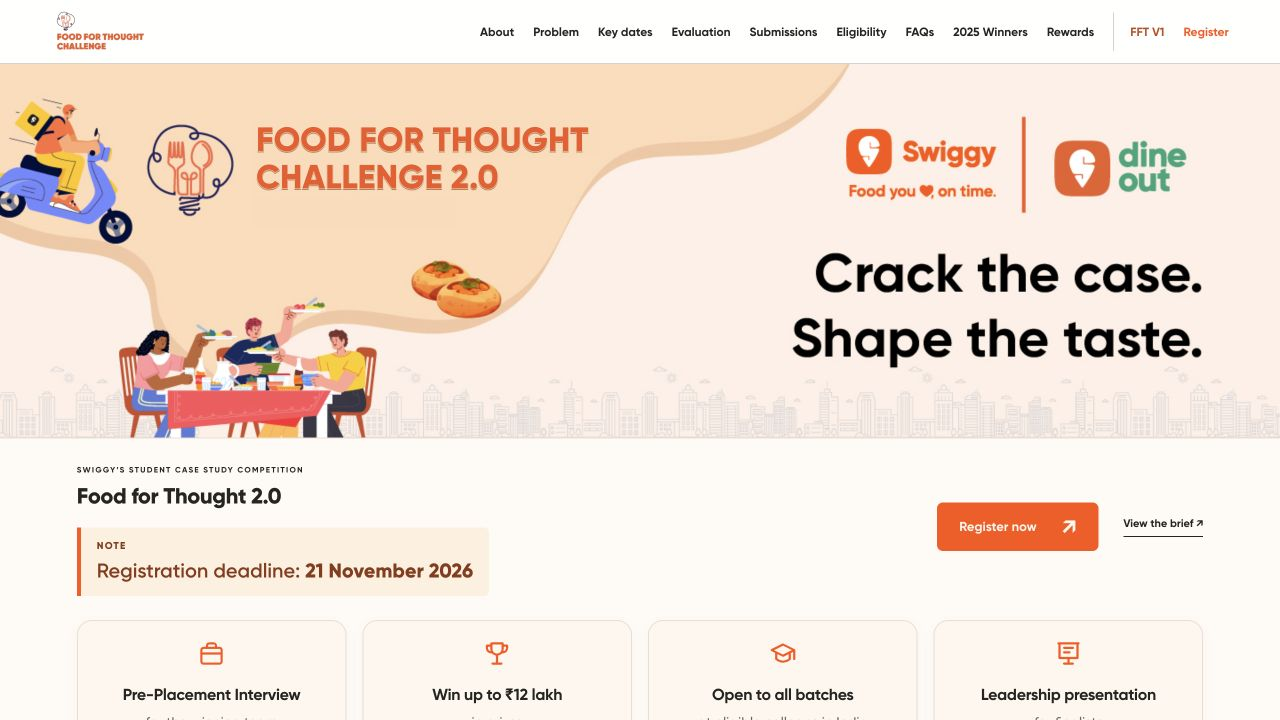
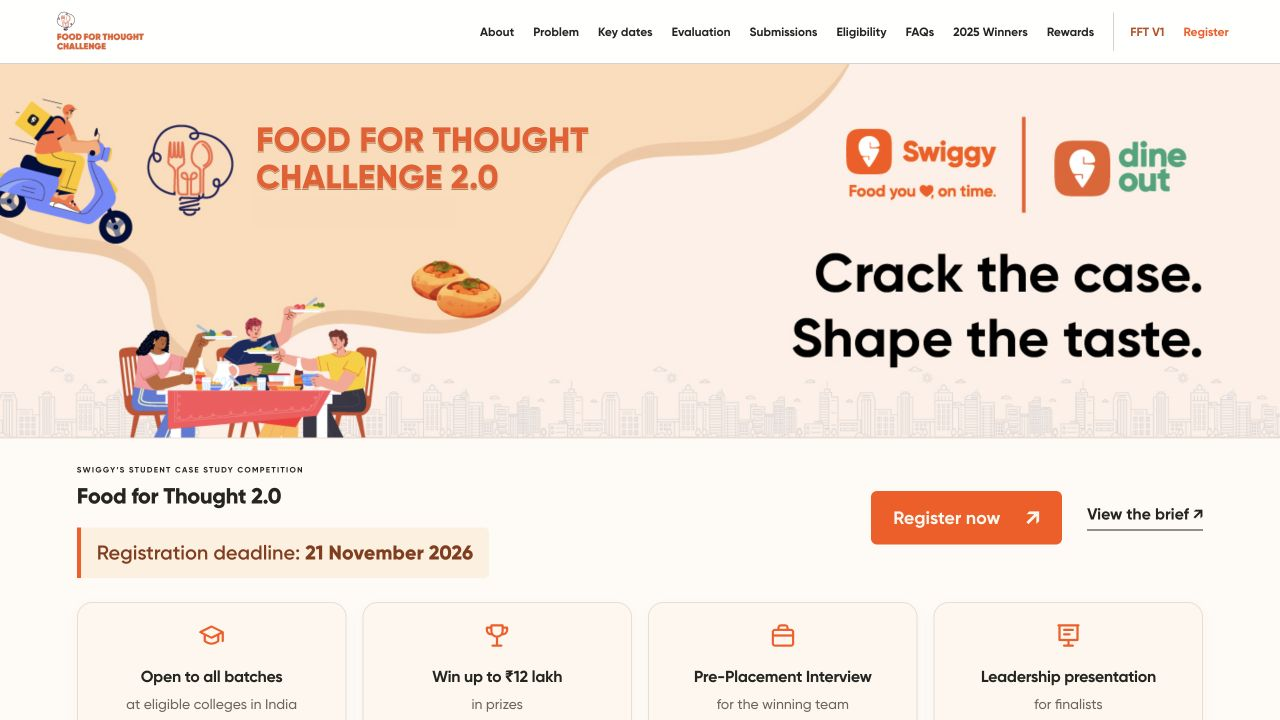
Reorder highlight cards and improve registration visibility

diff --git a/dist/styles.css b/dist/styles.css
@@ -54,11 +54,11 @@ dialog{background:var(--cream);border:1px solid var(--ink);border-radius:12px;pa
 .feedback-header{height:64px;padding:5px 4vw;gap:26px;background:#fffffff7}.feedback-header .brand{flex-shrink:0}.feedback-header .brand img{width:108px;height:50px;object-fit:contain}.feedback-header nav{gap:19px}.feedback-header nav a{font-size:12px;white-space:nowrap}.fft-v1-nav{padding-left:16px!important;border-left:1px solid var(--line);color:#bd4d21}.fft-v1-nav[aria-current=page]{color:var(--orange);text-decoration:underline;text-underline-offset:6px}
 .banner-edition{position:absolute;left:19.9%;top:36%;width:18%;height:10%;background:#ffdbb7;color:#111;display:flex;align-items:flex-start;padding-top:.2%;font-weight:700;font-size:clamp(9px,2.25vw,33px);line-height:1.2;letter-spacing:-.4px}
 .hero-caption{padding-top:19px;padding-bottom:19px;background:#fffaf5}.hero-caption h2{font-size:22px;letter-spacing:-.4px}.hero-caption .button{background:var(--orange);border-color:var(--orange)}.hero-caption .button:hover{box-shadow:none;transform:translateY(-1px)}
-.message-strip{display:grid;grid-template-columns:repeat(3,minmax(0,1fr));padding:13px 6vw;gap:20px;align-items:center;text-align:center;background:var(--orange);color:white}.message-strip span{font-size:12px;font-weight:700;letter-spacing:1px;white-space:normal;line-height:1.4}.message-strip span+span{border-left:1px solid #ffffff50}
+.message-strip{display:grid;grid-template-columns:repeat(3,minmax(0,1fr));padding:22px 6vw;gap:20px;align-items:center;text-align:center;background:var(--orange);color:white}.message-strip span{font-size:12px;font-weight:700;letter-spacing:1px;white-space:normal;line-height:1.4}.message-strip span+span{border-left:1px solid #ffffff50}
 .competition-intro{background:#fff7f0;color:var(--ink);padding:31px 0;border-bottom:1px solid var(--line)}.intro-wrap{width:min(1080px,calc(100% - 12vw));margin:auto}.competition-intro h2{font-size:26px;letter-spacing:-.4px;margin-bottom:13px}.competition-intro h3{font-size:21px;margin:22px 0 10px}.competition-intro p,.competition-intro li{font-size:15px;line-height:1.65}.competition-intro #problem>p+p{margin-top:12px}.competition-intro ul{margin:10px 0 0;padding-left:20px;display:grid;grid-template-columns:1fr 1fr;gap:25px}.competition-intro strong{color:var(--ink)}.competition-intro li{padding-left:2px}.competition-intro li::marker{color:var(--orange)}
 @media(max-width:1150px){.feedback-header{padding-inline:25px;gap:20px}.feedback-header nav{gap:13px}.feedback-header nav a{font-size:11px}.feedback-header .brand img{width:91px}.fft-v1-nav{padding-left:11px!important}}
 @media(max-width:900px){.feedback-header{height:64px;padding-inline:24px}.feedback-header .menu-toggle{margin-left:auto}.feedback-header .brand img{width:115px;height:47px}.feedback-header nav{top:64px;padding:18px 24px;gap:17px;background:white;border-bottom:1px solid var(--line);box-shadow:0 5px 10px #2424200b}.feedback-header nav.open{display:grid;grid-template-columns:1fr 1fr}.feedback-header nav a{font-size:13px}.fft-v1-nav{padding-left:0!important;border-left:0}.competition-intro ul{gap:20px}.competition-intro p,.competition-intro li{font-size:14px}.hero-caption h2{font-size:20px}}
-@media(max-width:640px){.feedback-header{height:60px;padding-inline:6vw}.feedback-header nav{top:60px}.banner-edition{font-size:2.35vw;padding-top:0;letter-spacing:-.1px}.hero-caption{padding:18px 6vw;gap:14px}.hero-caption h2{font-size:19px;line-height:1.25}.hero-caption .button{font-size:10px}.caption-actions{gap:17px}.message-strip{gap:10px;padding:11px 4vw}.message-strip span{font-size:8px;letter-spacing:.4px}.competition-intro{padding:25px 0}.competition-intro h2{font-size:23px}.competition-intro h3{font-size:19px;margin-top:19px}.competition-intro p,.competition-intro li{font-size:13px;line-height:1.6}.competition-intro ul{grid-template-columns:1fr;gap:10px}.intro-wrap{width:calc(100% - 12vw)}}
+@media(max-width:640px){.feedback-header{height:60px;padding-inline:6vw}.feedback-header nav{top:60px}.banner-edition{font-size:2.35vw;padding-top:0;letter-spacing:-.1px}.hero-caption{padding:18px 6vw;gap:14px}.hero-caption h2{font-size:19px;line-height:1.25}.hero-caption .button{font-size:10px}.caption-actions{gap:17px}.message-strip{gap:10px;padding:19px 4vw}.message-strip span{font-size:8px;letter-spacing:.4px}.competition-intro{padding:25px 0}.competition-intro h2{font-size:23px}.competition-intro h3{font-size:19px;margin-top:19px}.competition-intro p,.competition-intro li{font-size:13px;line-height:1.6}.competition-intro ul{grid-template-columns:1fr;gap:10px}.intro-wrap{width:calc(100% - 12vw)}}
 
 /* Edition 02 brief: compact guidance and a clear two-step registration journey. */
 .register-nav{color:var(--orange)}.v2-focus{margin-top:17px;border-left:3px solid var(--orange);padding:10px 16px;background:#ffead9}.v2-focus strong,.v2-focus span{display:block;font-size:14px;line-height:1.5}.v2-focus span{margin-top:5px}.slide-outline li+li{margin-top:12px}.detail-body a:not(.button){text-decoration:underline;text-underline-offset:3px}.faq-body h3{font-size:16px;margin:20px 0 7px}.faq-body h3:first-child{margin-top:0}.v2-rewards{grid-template-columns:repeat(3,minmax(0,1fr))}.compact-prizes .v2-rewards strong{font-size:28px;line-height:1.1;letter-spacing:-.8px}.compact-prizes .v2-rewards article{min-height:230px}.registration-section{padding:35px 6vw;background:#fff0db;border-top:1px solid #e5d4bb}.registration-heading h2{font-size:35px;letter-spacing:-1px;margin:8px 0 11px}.registration-heading p{font-size:15px}.registration-steps{display:grid;grid-template-columns:1fr 1fr;gap:35px;margin-top:27px}.registration-steps article{display:flex;gap:14px}.registration-steps .step{background:var(--orange);color:white;border-radius:50%;width:30px;height:30px;flex-shrink:0;display:grid;place-items:center;font-size:12px;font-weight:700}.registration-steps h3{font-size:19px;letter-spacing:-.4px;margin:3px 0 8px}.registration-steps p{font-size:13px;line-height:1.6;margin-bottom:17px}.registration-steps .button{font-size:12px;padding:15px 18px;gap:17px}.registration-pending{background:#e8e0d4;color:#62594d;border-color:#cabda9;cursor:not-allowed}.registration-pending:hover{transform:none;box-shadow:none}.registration-steps small{display:block;font-size:11px;line-height:1.5;margin-top:12px;max-width:340px}.initiative-links article strong{font-size:16px}.initiative-links article p{margin-top:6px}.initiative-links+p{margin-block:20px}.compact-timeline p{line-height:1.6}
@@ -98,3 +98,8 @@ dialog{background:var(--cream);border:1px solid var(--ink);border-radius:12px;pa
 /* Keep both title lines, including 2.0, in the same scalable wordmark. */
 .banner-wordmark{position:absolute;inset:0;width:100%;height:100%;pointer-events:none}
 .banner-wordmark-text{font-family:Gilroy,Arial,sans-serif;font-size:38px;font-weight:900;fill:#f25623;stroke:#ffe4c2;stroke-width:1;paint-order:stroke fill;filter:drop-shadow(.7px 1px 0 #ae794e)}
+
+/* Make registration actions easier to read at every screen size. */
+.hero-caption .button{font-size:18px}.caption-actions .text-link{font-size:16px}
+.registration-steps .button{font-size:17px}
+@media(max-width:640px){.hero-caption .button{font-size:16px;padding:17px 20px}.caption-actions{gap:20px}.caption-actions .text-link{font-size:14px}.registration-steps .button{font-size:15px}}

diff --git a/dist/index.html b/dist/index.html
@@ -25,9 +25,9 @@
 <g class="banner-wordmark-text"><text x="288" y="98">FOOD FOR THOUGHT</text><text x="288" y="140">CHALLENGE 2.0</text></g>
 </svg>
 </div>
-<div class="hero-caption"><div><span class="eyebrow">SWIGGY’S STUDENT CASE STUDY COMPETITION</span><h2>Food for Thought 2.0</h2><div class="hero-deadline" role="note" aria-label="Registration deadline"><span class="deadline-note-label">Note</span><p>Registration deadline: <strong><time datetime="2026-11-21">21 November 2026</time></strong></p></div></div><div class="caption-actions"><a class="button dark competition-signup" href="https://tally.so/r/6DLy4Y" target="_blank" rel="noopener">Register now <span aria-hidden="true">↗</span></a><a class="text-link" href="#problem">View the brief ↗</a></div></div>
+<div class="hero-caption"><div><span class="eyebrow">SWIGGY’S STUDENT CASE STUDY COMPETITION</span><h2>Food for Thought 2.0</h2><div class="hero-deadline" role="note" aria-label="Registration deadline"><p>Registration deadline: <strong><time datetime="2026-11-21">21 November 2026</time></strong></p></div></div><div class="caption-actions"><a class="button dark competition-signup" href="https://tally.so/r/6DLy4Y" target="_blank" rel="noopener">Register now <span aria-hidden="true">↗</span></a><a class="text-link" href="#problem">View the brief ↗</a></div></div>
 </section>
-<section id="highlights" class="highlight-band" aria-label="Competition highlights"><ul class="highlight-grid"><li><svg viewBox="0 0 24 24" fill="none" stroke="currentColor" stroke-width="1.9" stroke-linecap="round" stroke-linejoin="round" aria-hidden="true"><rect x="3" y="7" width="18" height="14" rx="2"/><path d="M8 7V5a2 2 0 0 1 2-2h4a2 2 0 0 1 2 2v2M3 12h18"/></svg><h3>Pre-Placement Interview</h3><p>for the winning team</p></li><li><svg viewBox="0 0 24 24" fill="none" stroke="currentColor" stroke-width="1.9" stroke-linecap="round" stroke-linejoin="round" aria-hidden="true"><path d="M7 3h10v5a5 5 0 0 1-10 0V3ZM7 5H3v2a4 4 0 0 0 4 4M17 5h4v2a4 4 0 0 1-4 4M12 13v7M8 21h8"/></svg><h3>Win up to ₹12 lakh</h3><p>in prizes</p></li><li><svg viewBox="0 0 24 24" fill="none" stroke="currentColor" stroke-width="1.9" stroke-linecap="round" stroke-linejoin="round" aria-hidden="true"><path d="m2 9 10-5 10 5-10 5-10-5ZM6 11v6c4 3 8 3 12 0v-6M22 9v8"/></svg><h3>Open to all batches</h3><p>at eligible colleges in India</p></li><li><svg viewBox="0 0 24 24" fill="none" stroke="currentColor" stroke-width="1.9" stroke-linecap="round" stroke-linejoin="round" aria-hidden="true"><path d="M3 3h18M4 3v13h16V3M12 16v5M8 21h8M8 7h8M8 11h5"/></svg><h3>Leadership presentation</h3><p>for finalists</p></li></ul></section>
+<section id="highlights" class="highlight-band" aria-label="Competition highlights"><ul class="highlight-grid"><li><svg viewBox="0 0 24 24" fill="none" stroke="currentColor" stroke-width="1.9" stroke-linecap="round" stroke-linejoin="round" aria-hidden="true"><path d="m2 9 10-5 10 5-10 5-10-5ZM6 11v6c4 3 8 3 12 0v-6M22 9v8"/></svg><h3>Open to all batches</h3><p>at eligible colleges in India</p></li><li><svg viewBox="0 0 24 24" fill="none" stroke="currentColor" stroke-width="1.9" stroke-linecap="round" stroke-linejoin="round" aria-hidden="true"><path d="M7 3h10v5a5 5 0 0 1-10 0V3ZM7 5H3v2a4 4 0 0 0 4 4M17 5h4v2a4 4 0 0 1-4 4M12 13v7M8 21h8"/></svg><h3>Win up to ₹12 lakh</h3><p>in prizes</p></li><li><svg viewBox="0 0 24 24" fill="none" stroke="currentColor" stroke-width="1.9" stroke-linecap="round" stroke-linejoin="round" aria-hidden="true"><rect x="3" y="7" width="18" height="14" rx="2"/><path d="M8 7V5a2 2 0 0 1 2-2h4a2 2 0 0 1 2 2v2M3 12h18"/></svg><h3>Pre-Placement Interview</h3><p>for the winning team</p></li><li><svg viewBox="0 0 24 24" fill="none" stroke="currentColor" stroke-width="1.9" stroke-linecap="round" stroke-linejoin="round" aria-hidden="true"><path d="M3 3h18M4 3v13h16V3M12 16v5M8 21h8M8 7h8M8 11h5"/></svg><h3>Leadership presentation</h3><p>for finalists</p></li></ul></section>
 <div class="message-strip" aria-label="Competition focus"><span>DISCOVER AN UNMET NEED</span><span>VALIDATE YOUR IDEA</span><span>BUILD WHAT’S NEXT</span></div>
 <section id="about" class="section competition-intro"><div class="intro-wrap">
 <h2>About the Competition</h2><p>Food for Thought 2.0 invites students to solve a real business problem using insights from their own campus. Build a portfolio-worthy case, explore how Swiggy Food, Dineout and Instamart serve student needs, gain exposure to Swiggy’s business teams and leadership, and compete for cash rewards and a pre-placement interview opportunity.</p>

diff --git a/README.md b/README.md
@@ -6,7 +6,7 @@ A responsive website for Swiggy’s student case study competition. Food for Tho
 
 **Status:** Updated with the latest Food for Thought 2.0 brief. AI use and a prototype video are mandatory. Evaluation is **70% business case / 30% prototype**. The official competition registration form and Student Rewards prerequisite link are available.
 
-**Confirmed registration deadline: 21 November 2026.** The hero displays this as a prominent note.
+**Confirmed registration deadline: 21 November 2026.** The hero displays this as a prominent deadline callout.
 
 **Other dates remain proposed:** submission deadline 15 December 2026 · result of Round 1 on 31 December 2026 · national finale 15 January 2027.
 
@@ -18,7 +18,7 @@ The website refreshes the first edition’s familiar visual identity while keepi
 
 The main page includes:
 
-- **Hero highlights:** a compact four-card row for the winning team’s PPI, up to ₹12 lakh in prizes, eligibility and leadership presentations for finalists.
+- **Hero highlights:** a compact four-card row ordered as eligibility, up to ₹12 lakh in prizes, the winning team’s PPI, and leadership presentations for finalists.
 
 - **Problem and scope:** validate an unmet student need and connect the solution to Swiggy’s core ecosystem. Covers food ordering/delivery, dining, fulfilment, affordability/rewards/loyalty, campus communities and AI-led improvements; unrelated categories are out of scope.
 - **Visible Evaluation Framework and Expected Submission sections:** the supplied wording is reproduced verbatim immediately after Key dates, with headings, paragraphs and bullets matching the problem statement format.
